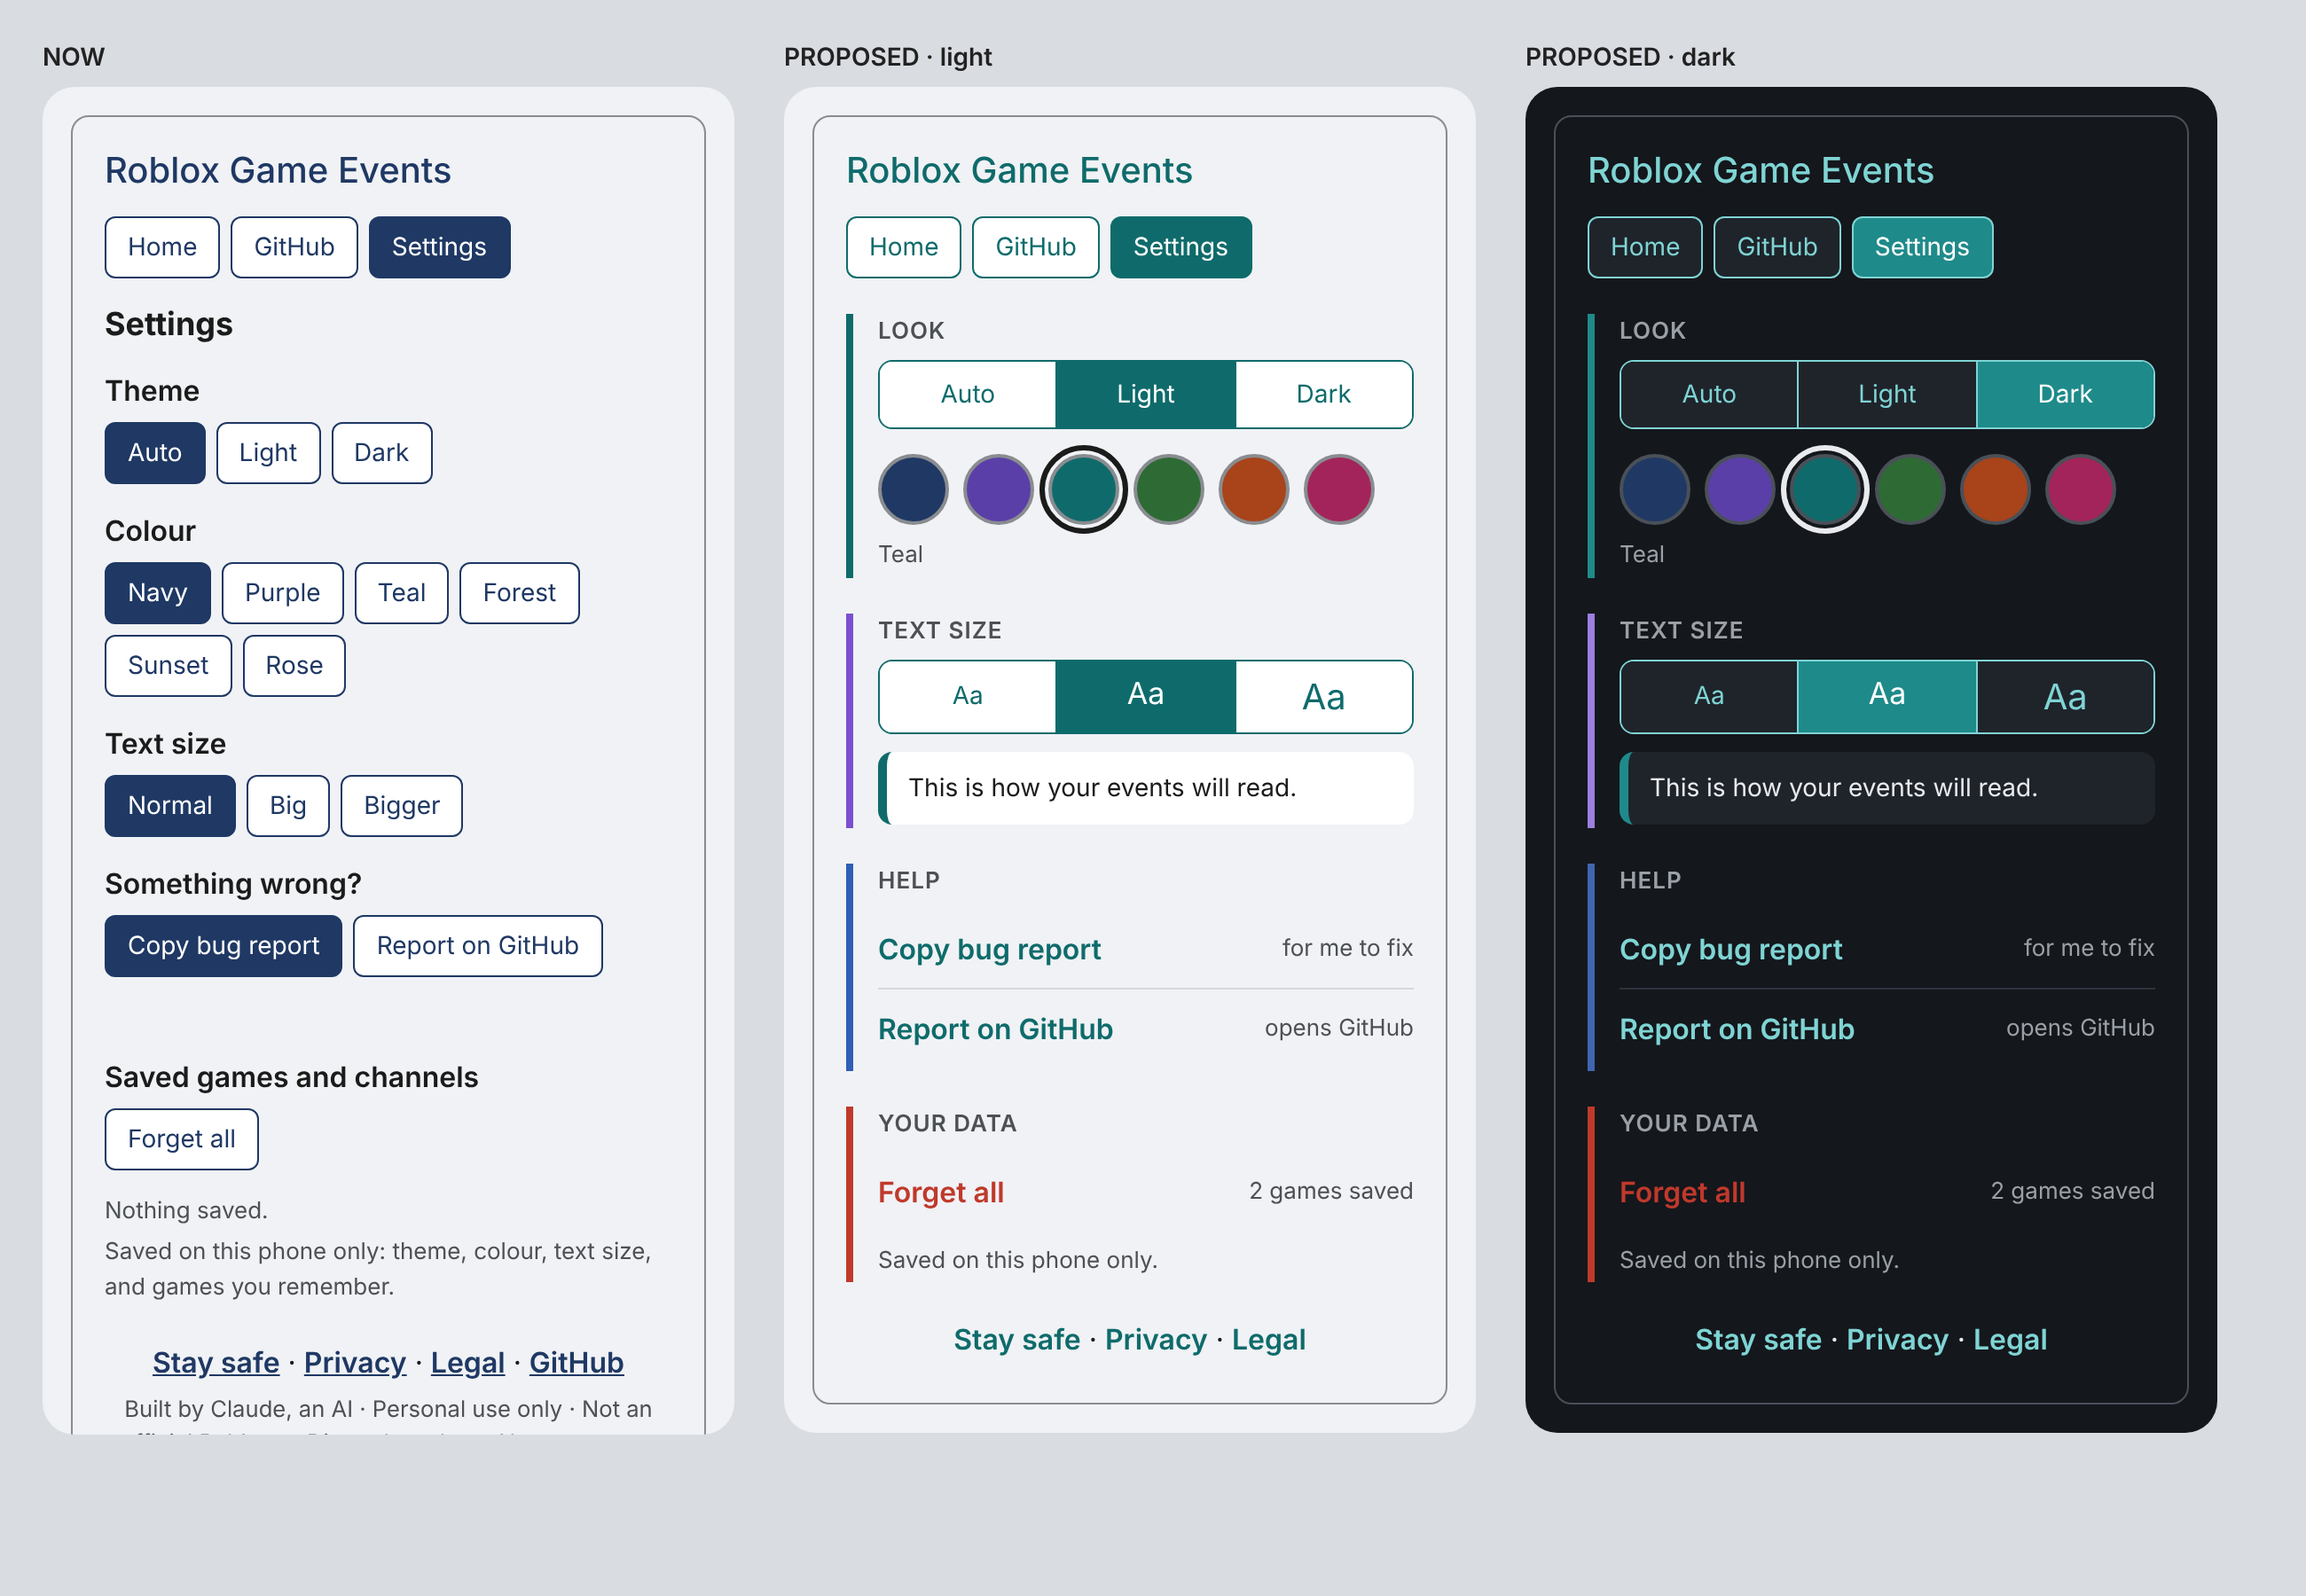
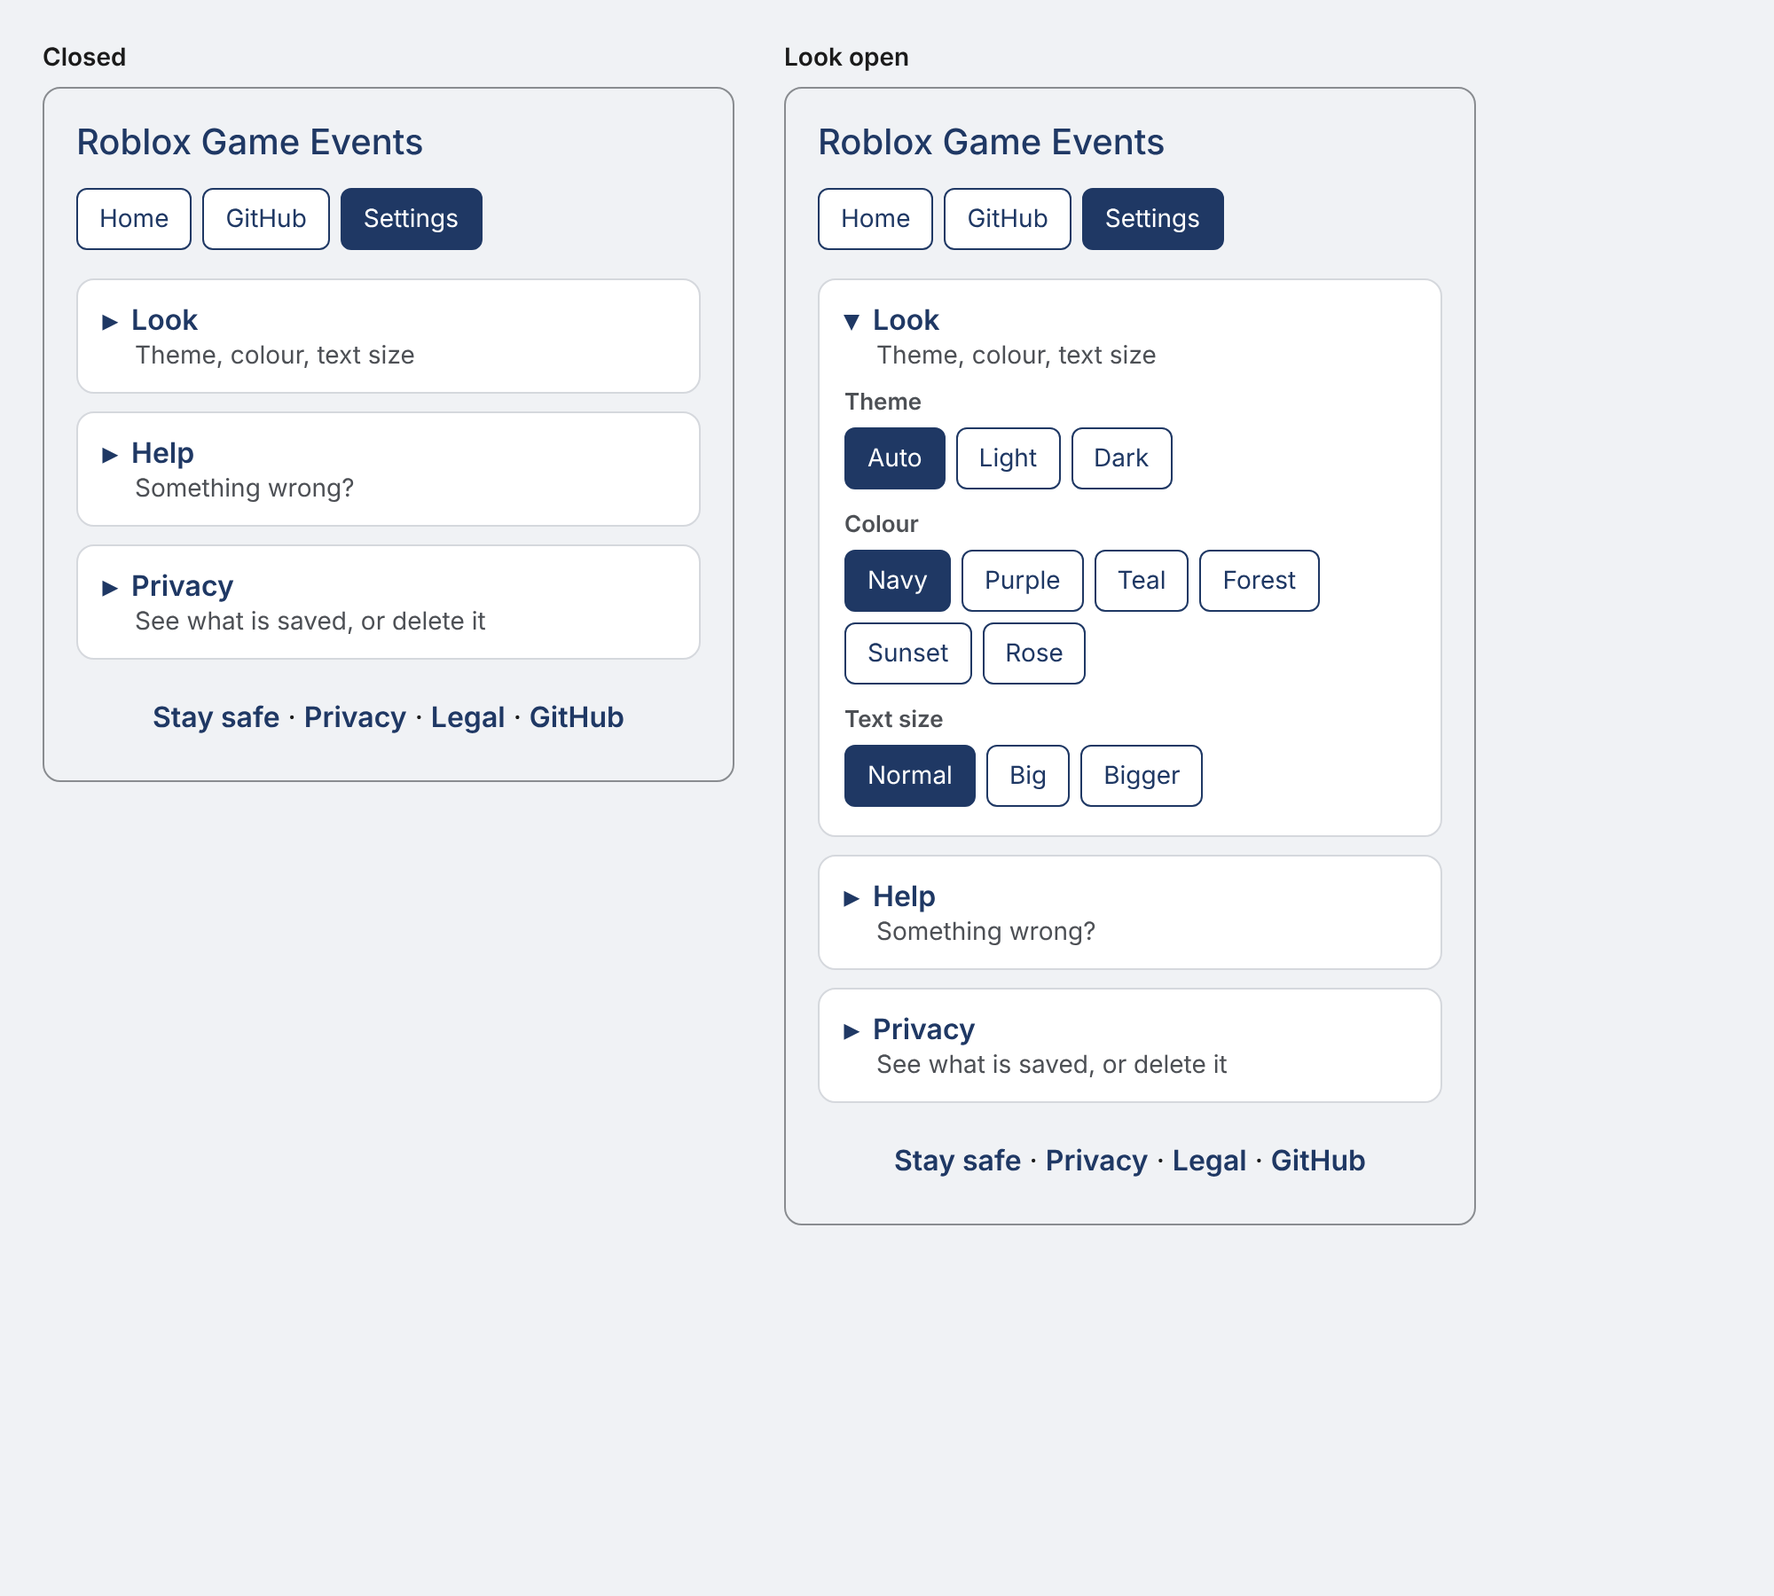
Settings mockup: copy Fishing Cat layout
Claude-Session: https://claude.ai/code/session_01P4cto4VoaX6T5n8u89ZkX7

diff --git a/mockup/index.html b/mockup/index.html
@@ -1,39 +1,17 @@
-<!doctype html><meta charset=utf-8><link rel=stylesheet href=../site/home.css><link rel=stylesheet href=p.css>
-<style>body{background:#d9dce1;font-family:system-ui;padding:24px;margin:0}
-.g{display:flex;gap:28px;align-items:flex-start}.c{width:390px}.c>b{display:block;font:600 14px system-ui;margin:0 0 8px;color:#222}
-.ph{background:var(--bg);border-radius:18px;padding:16px;color:var(--text)}
-iframe{width:390px;height:760px;border:0;border-radius:18px}
-.dk{--c-setup:#9C7FE0;--c-example:#3F66B0;--bg:#14171C;--text:#E8EAED;--muted:#9AA0A6;--accent:#1F8A8A;--link:#7FD4D4;--line:#4A5058;--field:#1F242B;--soft:#2E343C;color-scheme:dark}
-.lt{--accent:#0F6B6B;--link:#0F6B6B}</style>
-<div class=g>
-<div class=c><b>NOW</b><iframe src="../site/settings.html"></iframe></div>
-<div class=c><b>PROPOSED · light</b><div class="ph lt"><div class="card" style="margin:0"><h1>Roblox Game Events</h1>
-<nav class="tabs main"><a class="tab">Home</a><a class="tab">GitHub</a><a class="tab on">Settings</a></nav>
-<div class="s"><h3>Look</h3>
-<div class="seg"><button>Auto</button><button class="on">Light</button><button class="">Dark</button></div>
-<div class="sw2" style="margin-top:14px"><button style="background:#1F3864" class="" aria-label="Navy"></button><button style="background:#5B3FA8" class="" aria-label="Purple"></button><button style="background:#0F6B6B" class="on" aria-label="Teal"></button><button style="background:#2E6B34" class="" aria-label="Forest"></button><button style="background:#A8431A" class="" aria-label="Sunset"></button><button style="background:#A3245A" class="" aria-label="Rose"></button></div><p class="nm">Teal</p></div>
-<div class="s c2"><h3>Text size</h3>
-<div class="seg sz"><button style="font-size:.875rem">Aa</button><button class="on" style="font-size:1.0625rem">Aa</button><button style="font-size:1.25rem">Aa</button></div>
-<p class="pre">This is how your events will read.</p></div>
-<div class="s c3"><h3>Help</h3>
-<div class="rw">Copy bug report<span>for me to fix</span></div>
-<div class="rw">Report on GitHub<span>opens GitHub</span></div></div>
-<div class="s c4"><h3>Your data</h3>
-<div class="rw d">Forget all<span>2 games saved</span></div>
-<p class="nm">Saved on this phone only.</p></div>
-<p class="foot"><a>Stay safe</a> · <a>Privacy</a> · <a>Legal</a></p></div></div></div>
-<div class=c><b>PROPOSED · dark</b><div class="ph dk"><div class="card" style="margin:0"><h1>Roblox Game Events</h1>
-<nav class="tabs main"><a class="tab">Home</a><a class="tab">GitHub</a><a class="tab on">Settings</a></nav>
-<div class="s"><h3>Look</h3>
-<div class="seg"><button>Auto</button><button class="">Light</button><button class="on">Dark</button></div>
-<div class="sw2" style="margin-top:14px"><button style="background:#1F3864" class="" aria-label="Navy"></button><button style="background:#5B3FA8" class="" aria-label="Purple"></button><button style="background:#0F6B6B" class="on" aria-label="Teal"></button><button style="background:#2E6B34" class="" aria-label="Forest"></button><button style="background:#A8431A" class="" aria-label="Sunset"></button><button style="background:#A3245A" class="" aria-label="Rose"></button></div><p class="nm">Teal</p></div>
-<div class="s c2"><h3>Text size</h3>
-<div class="seg sz"><button style="font-size:.875rem">Aa</button><button class="on" style="font-size:1.0625rem">Aa</button><button style="font-size:1.25rem">Aa</button></div>
-<p class="pre">This is how your events will read.</p></div>
-<div class="s c3"><h3>Help</h3>
-<div class="rw">Copy bug report<span>for me to fix</span></div>
-<div class="rw">Report on GitHub<span>opens GitHub</span></div></div>
-<div class="s c4"><h3>Your data</h3>
-<div class="rw d">Forget all<span>2 games saved</span></div>
-<p class="nm">Saved on this phone only.</p></div>
-<p class="foot"><a>Stay safe</a> · <a>Privacy</a> · <a>Legal</a></p></div></div></div></div>
+<!doctype html><meta charset=utf-8><link rel=stylesheet href=../site/home.css><link rel=stylesheet href=c.css>
+<style>body{padding:24px;display:flex;gap:28px;align-items:flex-start}.c{width:390px}.c>b{display:block;font:600 14px system-ui;margin:0 0 8px}</style>
+<div class=c><b>Closed</b><div class="card" style="margin:0"><h1>Roblox Game Events</h1><nav class="tabs main"><a class="tab">Home</a><a class="tab">GitHub</a><a class="tab on">Settings</a></nav>
+<details class="hc"><summary>Look<small>Theme, colour, text size</small></summary>
+<div class="l">Theme</div><div class="tabs"><button class="tab on">Auto</button><button class="tab">Light</button><button class="tab">Dark</button></div>
+<div class="l">Colour</div><div class="tabs"><button class="tab on">Navy</button><button class="tab">Purple</button><button class="tab">Teal</button><button class="tab">Forest</button><button class="tab">Sunset</button><button class="tab">Rose</button></div>
+<div class="l">Text size</div><div class="tabs"><button class="tab on">Normal</button><button class="tab">Big</button><button class="tab">Bigger</button></div></details>
+<details class="hc"><summary>Help<small>Something wrong?</small></summary></details>
+<details class="hc"><summary>Privacy<small>See what is saved, or delete it</small></summary></details>
+<p class="foot"><a>Stay safe</a> &middot; <a>Privacy</a> &middot; <a>Legal</a> &middot; <a>GitHub</a></p></div></div><div class=c><b>Look open</b><div class="card" style="margin:0"><h1>Roblox Game Events</h1><nav class="tabs main"><a class="tab">Home</a><a class="tab">GitHub</a><a class="tab on">Settings</a></nav>
+<details class="hc" open><summary>Look<small>Theme, colour, text size</small></summary>
+<div class="l">Theme</div><div class="tabs"><button class="tab on">Auto</button><button class="tab">Light</button><button class="tab">Dark</button></div>
+<div class="l">Colour</div><div class="tabs"><button class="tab on">Navy</button><button class="tab">Purple</button><button class="tab">Teal</button><button class="tab">Forest</button><button class="tab">Sunset</button><button class="tab">Rose</button></div>
+<div class="l">Text size</div><div class="tabs"><button class="tab on">Normal</button><button class="tab">Big</button><button class="tab">Bigger</button></div></details>
+<details class="hc"><summary>Help<small>Something wrong?</small></summary></details>
+<details class="hc"><summary>Privacy<small>See what is saved, or delete it</small></summary></details>
+<p class="foot"><a>Stay safe</a> &middot; <a>Privacy</a> &middot; <a>Legal</a> &middot; <a>GitHub</a></p></div></div>

diff --git a/mockup/shot.js b/mockup/shot.js
@@ -1,1 +1,1 @@
-const {chromium}=require('playwright');(async()=>{const b=await chromium.launch();const p=await b.newPage({viewport:{width:1300,height:900},deviceScaleFactor:2});await p.goto('file://'+process.cwd()+'/index.html');await p.waitForTimeout(500);await p.screenshot({path:'/home/user/Roblox-Game-Events-/mockup/settings-mockup.png',fullPage:true});await b.close()})()
+const {chromium}=require('playwright');(async()=>{const b=await chromium.launch();const p=await b.newPage({viewport:{width:1000,height:900},deviceScaleFactor:2});await p.goto('file://'+process.cwd()+'/index.html');await p.waitForTimeout(400);await p.screenshot({path:process.cwd()+'/settings-mockup.png',fullPage:true});await b.close()})()

diff --git a/mockup/c.css b/mockup/c.css
@@ -1,0 +1,5 @@
+.hc summary{cursor:pointer;font-weight:600;color:var(--link);list-style:none;display:flex;flex-wrap:wrap;align-items:center;gap:0 8px}.hc summary::-webkit-details-marker{display:none}
+.hc summary:before{content:"\25B8"}.hc[open]>summary:before{content:"\25BE"}
+.hc summary small{flex-basis:100%;font-weight:400;font-size:.875rem;color:var(--muted);padding-left:18px;margin-top:2px}
+.hc+.hc{margin-top:10px}.hc .l{font-size:.8125rem;color:var(--muted);margin:12px 0 6px;font-weight:600}.hc .l:first-of-type{margin-top:10px}
+.hc .tabs{margin:0 0 4px}.hc .n{font-size:.8125rem;color:var(--muted);margin:6px 0 0}
